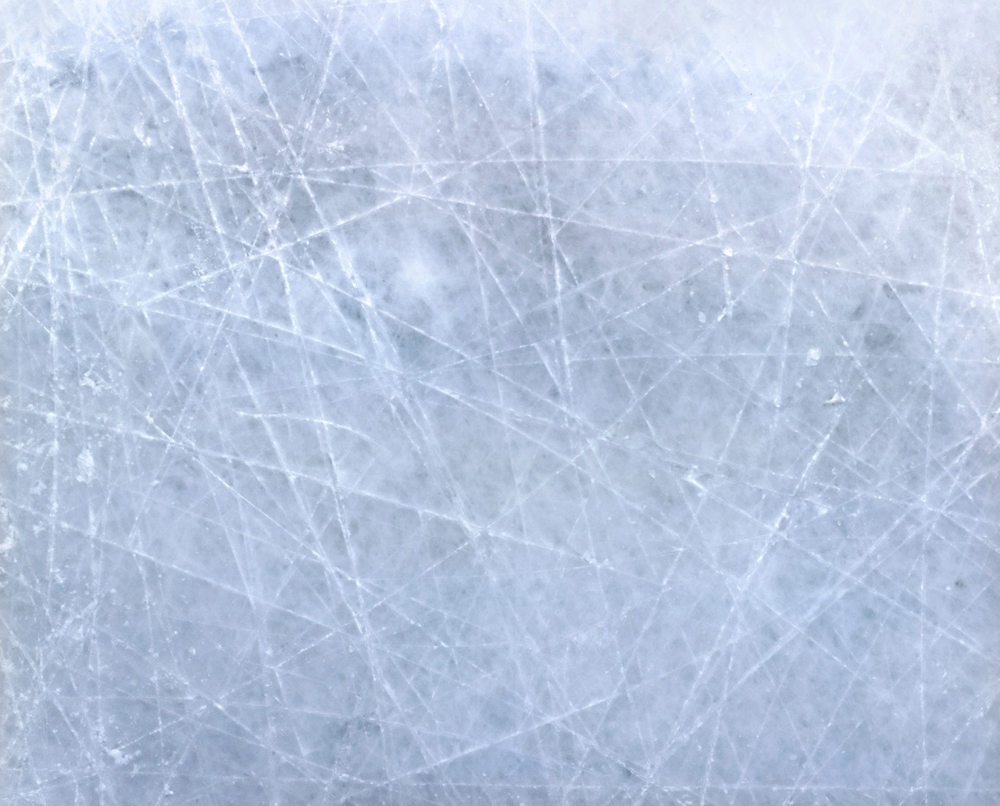
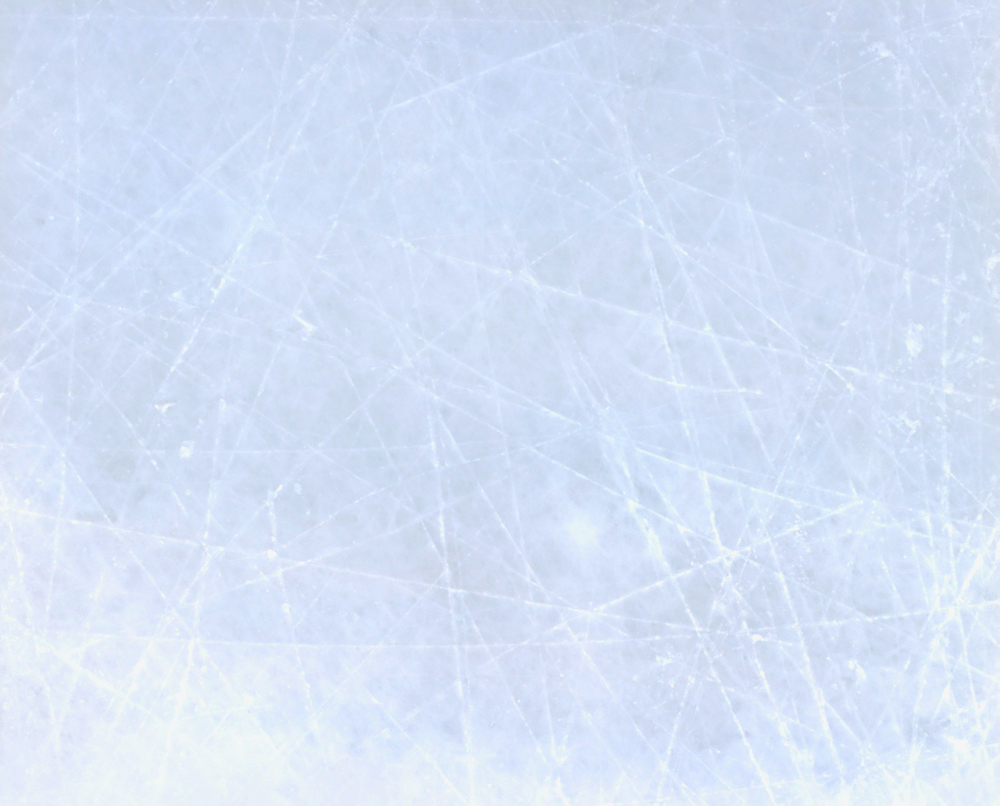
changed background and added styling to forms and tables. added google fonts.

diff --git a/app/assets/stylesheets/leagues.scss b/app/assets/stylesheets/leagues.scss
@@ -1,16 +1,17 @@
 // Place all the styles related to the League controller here.
 // They will automatically be included in application.css.scss.
 // You can use Sass (SCSS) here: http://sass-lang.com/
-.leagueteamstablewrapper {
+.searchtablewrapper {
+  background-image: url("Ice-cut.jpg");
   border: 2px solid #a1a1a1;
   padding: 10px 40px;
   border-radius: 25px;
-  background: #E8E8E6;
 }
 
-.scheduletablewrapper {
+.statictablewrapper {
+  background-image: url("Ice-cut.jpg");
   border: 2px solid #a1a1a1;
   padding: 10px 40px;
   border-radius: 25px;
-  background: #E8E8E6;
+
 }

diff --git a/app/assets/stylesheets/welcome.scss b/app/assets/stylesheets/welcome.scss
@@ -2,11 +2,12 @@
 // They will automatically be included in application.css.scss.
 // You can use Sass (SCSS) here: http://sass-lang.com/
 body {
-  background-image: url("Miracle-On-Ice.jpg");
+  background-image: url("IceRink2010.jpg");
   background-size: cover;
   background-repeat: no-repeat;
   background-attachment: fixed;
   background-position: center top;
+  font-family: 'Open Sans', sans-serif;
 }
 
 ul {

diff --git a/app/assets/stylesheets/teams.scss b/app/assets/stylesheets/teams.scss
@@ -1,9 +1,3 @@
 // Place all the styles related to the Team controller here.
 // They will automatically be included in application.css.scss.
 // You can use Sass (SCSS) here: http://sass-lang.com/
-.playerSchedule {
-  border: 2px solid #a1a1a1;
-  padding: 10px 40px;
-  border-radius: 25px;
-  background: #E8E8E6;
-}
